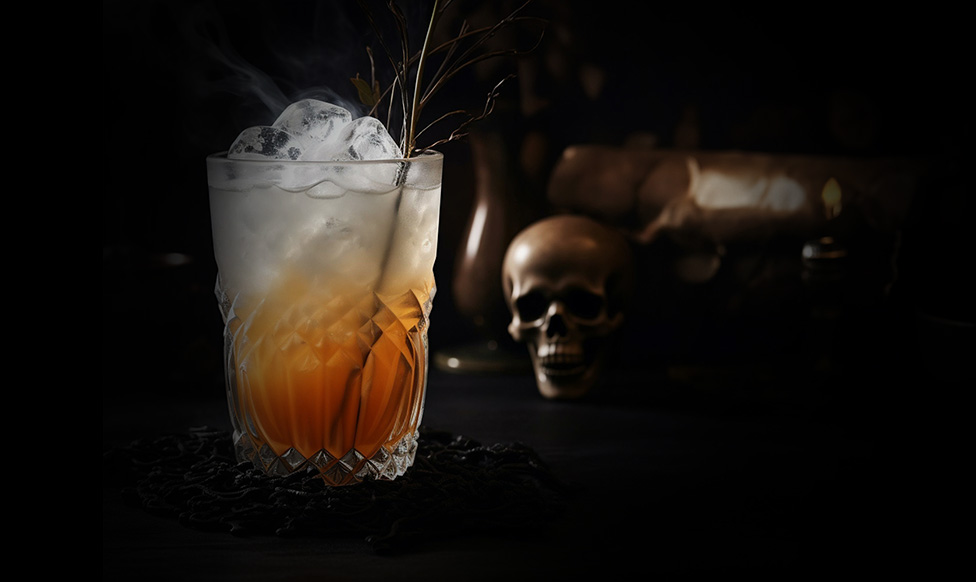
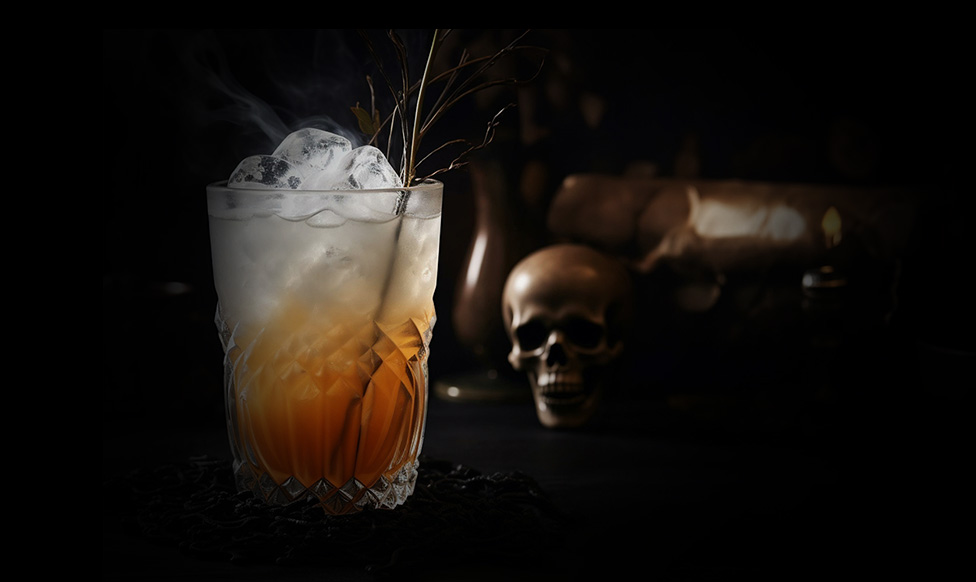
Added media to welcome screen

diff --git a/styles/Home.module.css b/styles/Home.module.css
@@ -17,8 +17,6 @@
 }
 
 
-
-
 .drinkSpecialTitle{
     text-align: center;
     font-family: Katerlin-51z;
@@ -91,7 +89,6 @@
     flex-direction: column;
     justify-content: center;
     position: absolute;
-    width: 600px;
     height: 100px;
     margin-top: 100px;
     z-index: 1;
@@ -111,7 +108,6 @@
     font-family: LoveYaLikeASister-Regular;
     font-weight: 200;
     font-size: 30px;
-    width: 600px;
 }
 
 .welcomeButtonContainer {
@@ -162,7 +158,7 @@
 .randomDrinkContainer {
     padding: 50px;
     width: 350px;
-    height: 400px;
+    height: 450px;
     margin-top: 50px;
     padding-top: -80px;
 }

diff --git a/components/header/index.jsx b/components/header/index.jsx
@@ -21,12 +21,10 @@ export default function Header(props) {
           </div>
           
         </>
-      ) : (
-        <>  
+      ) : ( 
           <div className={styles.headerImage}>
             <img src={"../Welcome.jpg"} ></img>
           </div>
-        </>
       )}
     </header>
   );

diff --git a/components/header/style.module.css b/components/header/style.module.css
@@ -3,12 +3,10 @@
   flex-direction: column;
   color: white;
   height: 500px;
-  width: 100%;
 }
 
 .headerImage {
   display: flex;
-  align-items: flex-start;
   justify-content: center;
   max-width: 100%;
   overflow: hidden;
